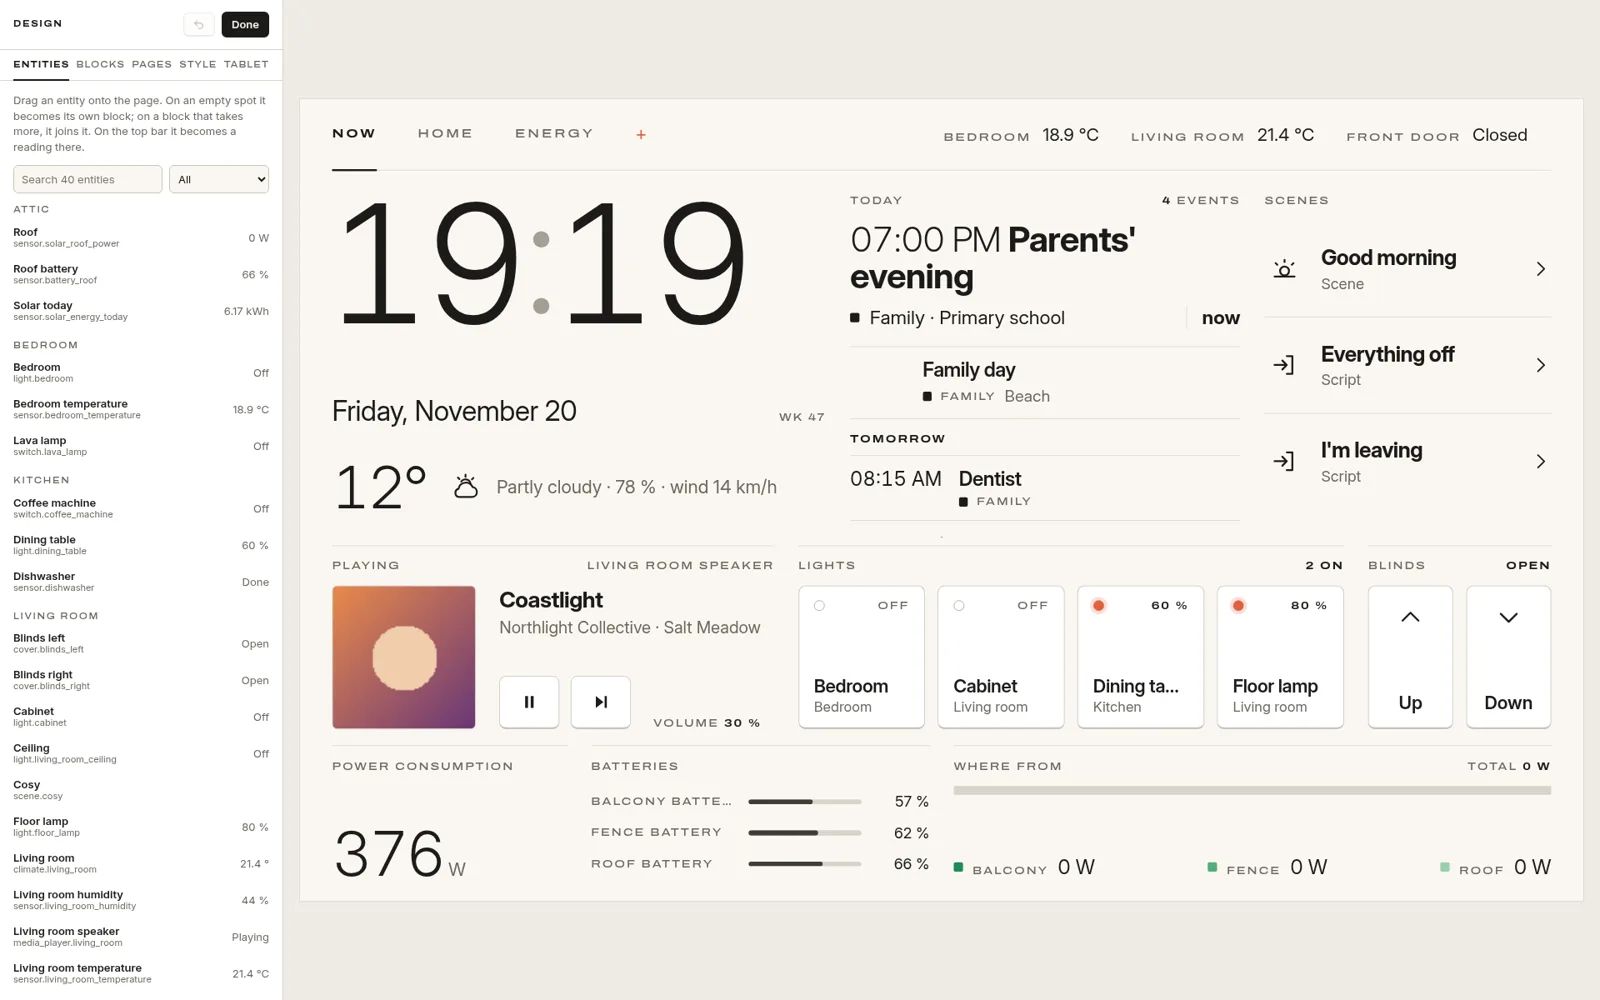
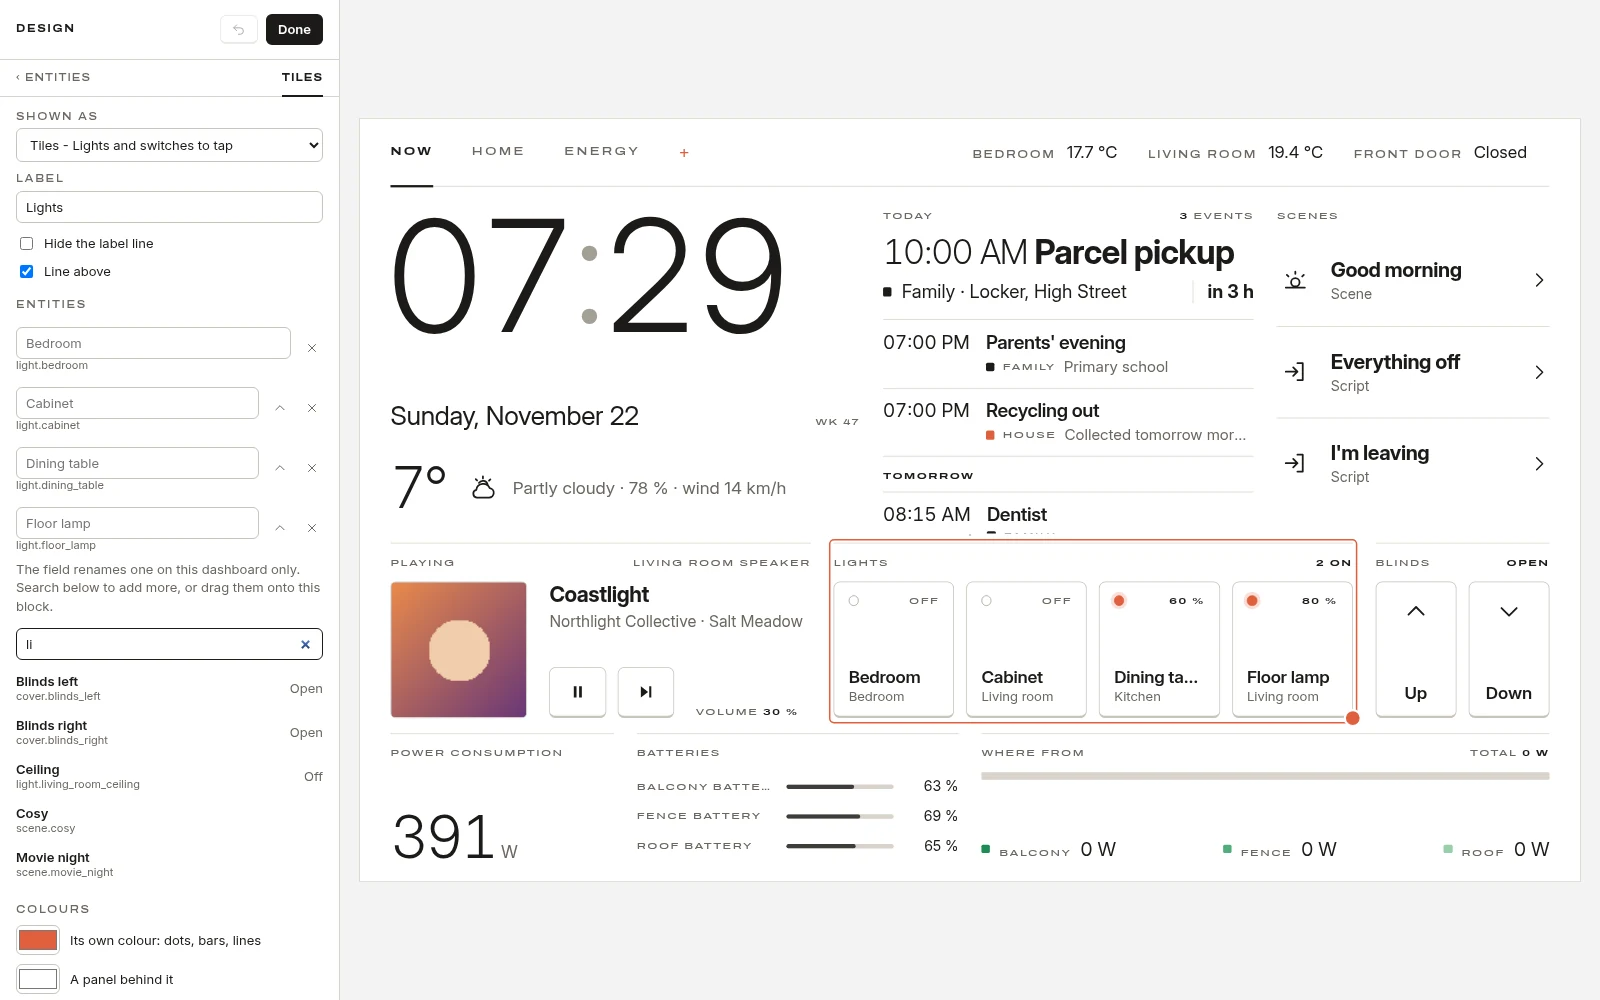
Dashboard 0.1.1: search to add entities to a block, screenshots on white

diff --git a/app-dashboard/src/web/design.js b/app-dashboard/src/web/design.js
@@ -2,7 +2,7 @@
 'use strict';
 
 const UNDO = [];
-let drawerTab = 'entities', entQuery = '', entDomain = '', stageScale = 1;
+let drawerTab = 'entities', entQuery = '', entDomain = '', addQuery = '', stageScale = 1;
 
 function snapshot() {
     UNDO.push(JSON.stringify(S.doc));
@@ -54,6 +54,7 @@ function fitStage() {
 window.addEventListener('resize', fitStage);
 
 function select(id) {
+    if (id !== S.sel) addQuery = '';
     S.sel = id;
     $$('.w.sel').forEach(el => el.classList.remove('sel'));
     if (id) $(`.w[data-id="${id}"]`)?.classList.add('sel');
@@ -67,6 +68,7 @@ function renderDrawer() {
     const head = `<div class="d-head"><span class="lbl">Design</span><button class="d-btn" data-undo ${UNDO.length ? '' : 'disabled'} title="Undo (Ctrl+Z)">${ic('undo')}</button><button class="d-btn primary" data-done>Done</button></div>`;
     if (w) {
         $('#drawer').innerHTML = head + `<div class="d-tabs"><button class="lbl" data-back>‹ Entities</button><button class="lbl on">${esc(BLOCKS[w.type]?.name || w.type)}</button></div><div class="d-body">${inspector(w)}</div>`;
+        renderAddList();
         return;
     }
     const tabs = [['entities', 'Entities'], ['blocks', 'Blocks'], ['page', 'Pages'], ['style', 'Style'], ['tablet', 'Tablet']];
@@ -80,17 +82,40 @@ function entitiesTab() {
         <div class="d-filter"><input class="d-search" type="search" placeholder="Search ${Object.keys(S.states).length} entities" value="${esc(entQuery)}" data-search>
         <select data-domain><option value="">All</option>${domains.map(d => `<option${d === entDomain ? ' selected' : ''}>${esc(d)}</option>`).join('')}</select></div><div id="d-list"></div>`;
 }
+const entMatch = (e, q) => !q || e.includes(q) || ename(e).toLowerCase().includes(q) || (S.areas[e] || '').toLowerCase().includes(q);
+const entRow = e => `<div class="d-ent" data-drag-entity="${esc(e)}"><div><b class="cut">${esc(ename(e))}</b><small class="cut">${esc(e)}</small></div><span>${esc(stateText(e))}</span></div>`;
 function renderEntityList() {
     const q = entQuery.trim().toLowerCase();
-    const found = Object.keys(S.states).filter(e => !S.hidden.has(e) && (!entDomain || dom(e) === entDomain)
-        && (!q || e.includes(q) || ename(e).toLowerCase().includes(q) || (S.areas[e] || '').toLowerCase().includes(q)));
+    const found = Object.keys(S.states).filter(e => !S.hidden.has(e) && (!entDomain || dom(e) === entDomain) && entMatch(e, q));
     const groups = {};
     for (const e of found.slice(0, 300)) (groups[S.areas[e] || ''] ||= []).push(e);
     const names = Object.keys(groups).sort((a, b) => !a - !b || a.localeCompare(b));
     $('#d-list').innerHTML = (names.map(area => `<div class="lbl d-area">${esc(area || 'No area')}</div>` + groups[area]
         .sort((a, b) => ename(a).localeCompare(ename(b)))
-        .map(e => `<div class="d-ent" data-drag-entity="${esc(e)}"><div><b class="cut">${esc(ename(e))}</b><small class="cut">${esc(e)}</small></div><span>${esc(stateText(e))}</span></div>`).join('')).join('')
+        .map(entRow).join('')).join('')
         || '<p class="d-hint">Nothing found.</p>') + (found.length > 300 ? `<p class="d-hint">…and ${found.length - 300} more. Search to narrow it down.</p>` : '');
+}
+// Whether the selected block can take one more entity
+const canAdd = w => { const block = BLOCKS[w.type] || BLOCKS.list; return block.takes !== BLOCKS.clock.takes && (block.many || !w.entities.length); };
+// The search in a block's own settings: the entities that block takes; click one (or drag it) to add it
+function renderAddList() {
+    const el = $('#d-add'), w = S.sel && findWidget(S.sel), q = addQuery.trim().toLowerCase();
+    if (!el || !w) return;
+    if (!q) { el.innerHTML = ''; return; }
+    const block = BLOCKS[w.type] || BLOCKS.list;
+    const found = Object.keys(S.states).filter(e => !S.hidden.has(e) && block.takes(e) && !w.entities.includes(e) && entMatch(e, q))
+        .sort((a, b) => ename(a).localeCompare(ename(b)));
+    el.innerHTML = (found.slice(0, 30).map(entRow).join('') || `<p class="d-hint">Nothing found that a ${esc(block.name.toLowerCase())} block takes.</p>`)
+        + (found.length > 30 ? `<p class="d-hint">…and ${found.length - 30} more. Type more to narrow it down.</p>` : '');
+}
+function addEntity(w, entity) {
+    const block = BLOCKS[w.type] || BLOCKS.list;
+    if (!canAdd(w) || !block.takes(entity) || w.entities.includes(entity)) return;
+    snapshot();
+    w.entities.push(entity);
+    changed();
+    const field = $('[data-add-search]');
+    if (field) { field.focus(); field.select(); }
 }
 function blocksTab() {
     return `<p class="d-hint">Drag a block onto the page, then drag entities onto it. An entity dropped on an empty spot picks its own block; you can change it afterwards.</p>`
@@ -194,7 +219,8 @@ function inspector(w) {
         ${w.entities.map((e, n) => `<div class="d-ent row-only"><div><input class="d-search" type="text" value="${esc(w.opts.names?.[e] || '')}" placeholder="${esc(attr(e, 'friendly_name') || e)}" data-ename="${esc(e)}">
             ${w.type === 'actions' ? `<input class="d-search" style="margin-top:4px" type="text" value="${esc(w.opts.subs?.[e] || '')}" placeholder="Text below (${esc(S.areas[e] || cap(dom(e)))})" data-esub="${esc(e)}">` : ''}
             <small class="cut">${esc(e)}</small></div>${n ? `<button class="x" data-eup="${n}" title="Earlier">${ic('up')}</button>` : ''}<button class="x" data-erm="${n}" title="Take off">${ic('x')}</button></div>`).join('')}
-        <p class="d-hint">${block.many ? 'Drag more entities onto this block to add them. The field renames one on this dashboard only.' : w.entities.length ? 'The field renames it on this dashboard only.' : 'Drag an entity onto this block.'}</p>` : '';
+        <p class="d-hint">${block.many ? (w.entities.length ? 'The field renames one on this dashboard only. ' : '') + 'Search below to add more, or drag them onto this block.' : w.entities.length ? 'The field renames it on this dashboard only.' : 'Search for an entity below, or drag one onto this block.'}</p>
+        ${canAdd(w) ? `<input class="d-search" type="search" placeholder="Search an entity to add" value="${esc(addQuery)}" data-add-search><div id="d-add"></div>` : ''}` : '';
     return `<label class="d-field"><span class="lbl">Shown as</span><select data-type>${types.map(t => `<option value="${t}"${t === w.type ? ' selected' : ''}>${BLOCKS[t].name} - ${BLOCKS[t].hint}</option>`).join('')}</select></label>
         <label class="d-field"><span class="lbl">Label</span><input type="text" data-label value="${esc(w.label)}" placeholder="${esc(auto)}" maxlength="80"></label>
         ${check('nohead', 'Hide the label line', w.opts.nohead)}${check('rule', 'Line above', w.opts.rule ?? w.y > 0)}${extra}${entities}
@@ -251,6 +277,7 @@ $('#drawer').addEventListener('input', ev => {
     const t = ev.target, d = t.dataset, w = S.sel && findWidget(S.sel);
     if ('search' in d) { entQuery = t.value; renderEntityList(); return; }
     if ('domain' in d) { entDomain = t.value; renderEntityList(); return; }
+    if ('addSearch' in d) { addQuery = t.value; renderAddList(); return; }
     if (t.matches('select, input[type=checkbox], input[type=number]')) return;
     fieldEdit();
     if (d.style) { (S.doc.style ||= {})[d.style] = t.value; applyStyle(); scheduleSave(); return; }
@@ -290,6 +317,8 @@ $('#drawer').addEventListener('change', ev => {
     changed();
 });
 $('#drawer').addEventListener('click', ev => {
+    const add = ev.target.closest('#d-add [data-drag-entity]');
+    if (add && S.sel && findWidget(S.sel)) return addEntity(findWidget(S.sel), add.dataset.dragEntity);
     const t = ev.target.closest('button');
     if (!t) return;
     const d = t.dataset, w = S.sel && findWidget(S.sel), page = currentPage();
@@ -446,6 +475,11 @@ document.addEventListener('pointerdown', ev => {
     dragWidget(ev, el, Boolean(ev.target.closest('.w-size')));
 });
 document.addEventListener('keydown', ev => {
+    if (S.design && ev.key === 'Enter' && 'addSearch' in ev.target.dataset) {
+        const first = $('#d-add [data-drag-entity]'), w = S.sel && findWidget(S.sel);
+        if (first && w) addEntity(w, first.dataset.dragEntity);
+        return;
+    }
     if (!S.design || ev.target.matches('input, select, textarea')) return;
     if ((ev.ctrlKey || ev.metaKey) && ev.key === 'z') { ev.preventDefault(); return undo(); }
     const w = S.sel && findWidget(S.sel);

diff --git a/app-dashboard/src/web/app.css b/app-dashboard/src/web/app.css
@@ -239,6 +239,8 @@ svg.ic .f { fill: currentColor; stroke: none; }
 .d-ent small { display: block; color: var(--muted); font-size: 11px; }
 .d-ent > span { color: var(--muted); white-space: nowrap; max-width: 90px; overflow: hidden; text-overflow: ellipsis; }
 .d-ent.row-only { cursor: default; }
+#d-add { margin-top: 6px; }
+#d-add .d-ent { cursor: pointer; }
 .d-ent .x { color: var(--muted); padding: 2px 4px; }
 .d-ent .x:hover { color: var(--accent); }
 .d-ent svg.ic { width: 14px; height: 14px; }

diff --git a/app-dashboard/DOCS.md b/app-dashboard/DOCS.md
@@ -38,7 +38,7 @@ Press the pencil on the top bar. A drawer opens on the left and the page shrinks
   - on a **block that takes more** (tiles, a list, a chart, bars) it joins that block,
   - on the **top bar** it becomes a reading that shows on every page.
 - **Blocks**: drag an empty block onto the page and then entities onto it.
-- **A block**: click it. Change what it is shown as, its label, the names of its entities on this dashboard, and its own settings. Drag it to move it, drag the round handle at its corner to size it, or use the arrow keys (with Shift to size). Delete removes it.
+- **A block**: click it. Change what it is shown as, its label, the names of its entities on this dashboard, and its own settings. Under **Entities** you can search for an entity and click it to add it to the block; the search shows only what that block takes. Drag it to move it, drag the round handle at its corner to size it, or use the arrow keys (with Shift to size). Delete removes it.
 - **Pages**: name, order, copy, delete and add pages; the readings on the top bar; and the grid. Every page fills the screen, so more columns and rows only place things more precisely.
 - **Style**: the look of every page. See below.
 - **Tablet**: what the tablet does by itself. See below.

diff --git a/app-dashboard/README.md b/app-dashboard/README.md
@@ -27,7 +27,7 @@ fonts, the background and the accent colour; give a block its own colour.
 <details>
 <summary>More screenshots</summary>
 
-![Design mode: drag entities from the drawer onto the page](https://raw.githubusercontent.com/cyberjunky/home-assistant-apps/main/app-dashboard/screenshots/design-light.webp)
+![Design mode: a block's settings, with the search to add entities to it](https://raw.githubusercontent.com/cyberjunky/home-assistant-apps/main/app-dashboard/screenshots/design-light.webp)
 
 ![Thermostat, temperatures, the forecast and cameras](https://raw.githubusercontent.com/cyberjunky/home-assistant-apps/main/app-dashboard/screenshots/home-light.webp)
 

diff --git a/app-dashboard/CHANGELOG.md b/app-dashboard/CHANGELOG.md
@@ -1,5 +1,12 @@
 # Changelog
 
+## 0.1.1
+
+**After updating:** nothing to do.
+
+- **Search to add:** a block's settings have a search for entities to add to it. It shows only what that block takes; click one, or press Enter for the first, to add it. Dragging still works.
+- The screenshots show the white background.
+
 ## 0.1.0
 
 First version.
